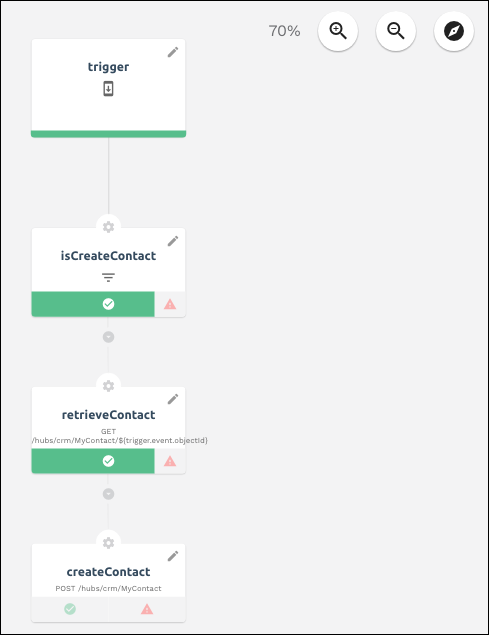
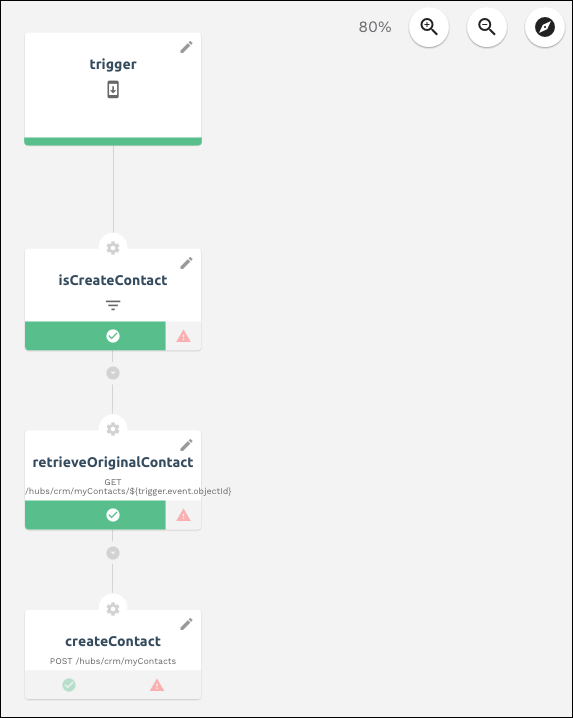
two good examples so far

diff --git a/docs/guides/formulasC2/examples.md b/docs/guides/formulasC2/examples.md
@@ -15,6 +15,11 @@ order: 15
 
 The examples in this section demonstrate a selection of common use cases for formulas. Each example is preceded by a table that identifies the types of triggers, steps, and variables used in the formula. The table also identifies any prerequisites required, like an element with events. Lastly, each example includes a downloadable JSON file that you can use to create your own version of the example template with the `POST /formulas` endpoint.
 
+<span style="color:red">Add some links to quick start stuff</span>
+
+<span style="color:red">You can add console logs. Try it ou to see what to reference.</span>
+
+
 {% include callout.html content="<strong>On this page</strong></br><a href=#crm-to-messages>CRM to Messages</a></br><a href=#retrieve-transform-and-sync-contact>Retrieve, Transform, and Sync Contact</a></br><a href=#bulk-transfer-crm-data>Bulk Transfer CRM Data</a>" type="info" %}
 
 ## CRM to Messages
@@ -72,32 +77,32 @@ To create a formula that listens for an event and emails a message:
 Your formula is finished and should look like the visualization below. It should include a trigger and two steps: the first constructs an email and the second sends a message.
 ![Trigger](img/viz-crm-messaging.png)
 
-## Retrieve, Transform, and Sync Contact
+## Add New Contact Created in One System to Another
 
-This example listens for a new contact on a CRM element, transforms the contact to match a common resource, and then syncs with another service provider.
+This example listens for a new contact on one element instance, and then adds the new contact to another element instance.  The trigger for the formula is an Event. When a new contact is created at an element instance that has events set up, the trigger receives a payload with the raw contact information. Because this raw data cannot be used to create the same contact at a different element instance, the formula uses the `objectID` from the trigger to get the transformed contact instead. The formula then posts the transformed contact to the target element instance.
 
 | Trigger | Step Types   | Variable Types | Prerequisites | Template JSON  |
 | :------------- | :------------- |:------------- |:------------- | :------------- |
-|  [Event] (reference.html/#event)  |  <ul><li>[JS Filter] (reference.html/#js-filter)</li><li>[Element API Request] (reference.html/#element-api-request)</li></ul>  | [Element Instance] (reference.html/#element-instance-variable) | <ul><li>CRM hub authenticated element instance with events</li><li>CRM hub authenticated element instance to sync new contact to</li><li>A common resource that transforms contacts</li></ul> | [Formula JSON][5]  |
+|  [Event] (reference.html/#event)  |  <ul><li>[JS Filter] (reference.html/#js-filter)</li><li>[Element API Request] (reference.html/#element-api-request)</li></ul>  | [Element Instance] (reference.html/#element-instance-variable) | <ul><li>CRM hub authenticated element instance with events</li><li>CRM hub authenticated element instance to sync new contact to</li><li>A common resource that transforms contacts</li><li>A common resource mapped to the origin and destination element instances</li></ul> | [Formula JSON][5]  |
 
-To create a formula that syncs contacts:
+To create a formula that adds new contacts created in one system to another:
 
 1. [Build a formula template](#build-a-formula-template) and select **Event** as the trigger.
-2. Because the trigger is a change to a CRM element, add an element instance variable that refers to a CRM element.
+2. Because the trigger originates from an element instance configured to listen for events, add an element instance variable.
   3. Click <img src="img/btn-Add.png" alt="Alt Text" class="inlineImage">.
   3. Click **Add New Variable**, and then click **Element Instance**.
-  4. Enter a name for your CRM variable. In this example, we'll use `destinationInstance`.
+  4. Enter a name for your CRM variable. In this example, we'll use `originInstance`.
   5. Click **Save**.
-  6. Select the variable that you just created (`destinationInstance`), and then click **Save** on the Edit event: "trigger" page.
+  6. Select the variable that you just created (`originInstance`), and then click **Save**.
 
         Your formula visualization should like like the following example:
         ![Trigger](img/viz-trigger.png)
 
-4. Add another element instance variable for the CRM element to sync the new contact to.
+4. Add another element instance variable to represent the system to be updated after you create a contact at the `originInstance`.
   5. Click **Variables**.
   ![Variables](img/variables.png)
   7. Click **Element Instance**.
-  8. Enter a name. For this tutorial we'll call it `originInstance`.
+  8. Enter a name. For this tutorial we'll call it `destinationInstance`.
   9. Click **Save**.
 10. In the formula visualization, click <img src="img/btn-add-step.gif" alt="Add a Step" class="inlineImage"> to add a step.
 6. Create a JS Filter step that checks to be sure the event is a created contact, and not an updated or deleted contact.
@@ -111,30 +116,30 @@ To create a formula that syncs contacts:
 
       done((theEvent === 'CREATED') && (theObject === 'Contact' || theObject === 'contacts'));
       ```
-1. Create an Element API Request step to retrieve the transformed version of the contact. Under the **isCreateContact** step, click the **OnSuccess** button  <img src="img/btn-onSuccess.png" alt="OnSuccess" class="inlineImage">.
+1. Create an Element API Request step to retrieve the transformed version of the newly created object based on the `objectId` in the trigger. Under the **isCreateContact** step, click the **OnSuccess** button  <img src="img/btn-onSuccess.png" alt="OnSuccess" class="inlineImage">.
 
-    {% include note.html content="This step uses the objectId from the previous step to retrieve the transformed object. If you just retrieved the information about the object from the event payload, it would not be normalized and could not sync with another CRM element. " %}
+    {% include note.html content="This step uses the <code>objectId</code> from the trigger to retrieve the transformed object. If you just retrieved the information about the object from the event payload in the trigger, it would not be transformed and could not sync with another element. " %}
 
   7. Select **Element API Request**.
-  8. Enter a name. For this tutorial we'll call it `retrieveContact`.
+  8. Enter a name. For this tutorial we'll call it `retrieveOriginalContact`.
   9. In **Element Instance Variable**, click <img src="img/btn-Add.png" alt="Alt Text" class="inlineImage">, and then select the **originInstance** variable that we created earlier.
   9. In **Method**, select **GET** because the formula will submit a GET request to a common resource.
-  10. In **API**, enter the API to the common resource that transforms the data supplied by the event. For this tutorial, the common resource is called `myContact`. You must also specify the objectID from the contact that triggered the event.
+  10. In **API**, retrieve the transformed newly created contact by entering the endpoint of the common resource and specifying the `objectId` from the trigger. For this tutorial, the common resource is called `myContacts`.
 
-            /hubs/crm/MyContact/${trigger.event.objectId}
+            /hubs/crm/MyContacts/${trigger.event.objectId}
 
   13. Click **Save**.
-1. Create an Element API Request step to sync the contact to another CRM element instance. Under the **retrieveContact** step, click the **OnSuccess** button  <img src="img/btn-onSuccess.png" alt="OnSuccess" class="inlineImage">.
+1. Create an Element API Request step to add the contact to another element instance. Under the **retrieveContact** step, click the **OnSuccess** button  <img src="img/btn-onSuccess.png" alt="OnSuccess" class="inlineImage">.
   7. Select **Element API Request**.
   8. Enter a name. For this tutorial we'll call it `createContact`.
   9. In **Element Instance Variable**, click <img src="img/btn-Add.png" alt="Alt Text" class="inlineImage">, and then select the **destinationInstance** variable that we created earlier.
   9. In **Method**, select **POST** because the formula will submit a POST request to sync the contact.
-  10. In **API**, enter the API to the common resource. For this tutorial, the common resource is called `myContact`.
+  10. In **API**, enter the API to the common resource. For this tutorial, the common resource is called `myContacts`.
 
-            /hubs/crm/MyContact
+            /hubs/crm/MyContacts
 
   11. Click **Show Advanced**.
-  12. Scroll to **Body** and enter the reference to the step with the transformed contact data. In this case, type `${steps.retrieveContact.response.body}`.
+  12. Scroll to **Body** and enter the reference to the step with the transformed contact data. In this case, type `${steps.retrieveOriginalContact.response.body}`. This inserts the body from the `retrieveOriginalContact` step&mdash;the JSON describing the transformed contact&mdash;in the POST API call to the `destinationInstance`.
   13. Click **Save**.
 
 Your formula is finished and should look like the visualization below. It should include a trigger and three steps: the first checks that an event is a created contact, the second gets the transformed contact data, and the third syncs the contact.
@@ -318,6 +323,8 @@ To get started, we are going to demonstrate how to create a very simple formula 
 [2]:{{ site.url }}/download/crm-to-messaging-formula-instance.json
 [3]:{{ site.url }}/download/crm-to-messaging-formula-instance-execution.json
 [4]:{{ site.url }}/download/crm-to-message.json
+[5]:{{ site.url }}/download/add-new-contact.json
+
 
 
 # Creating Formulas via API
